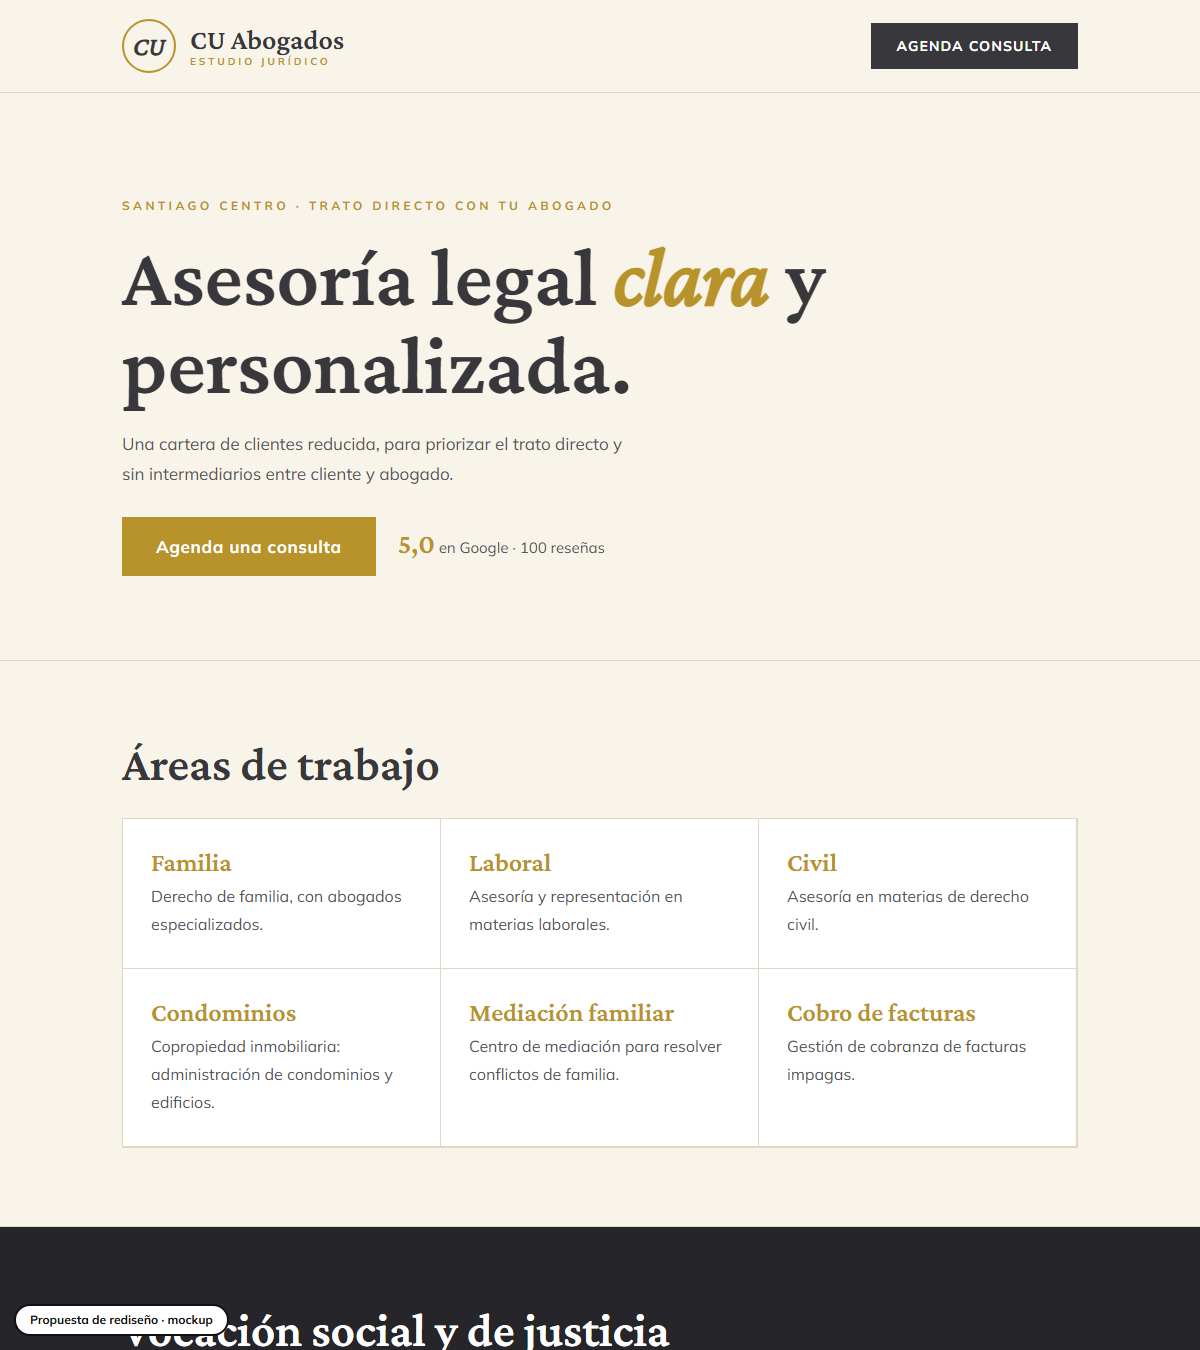
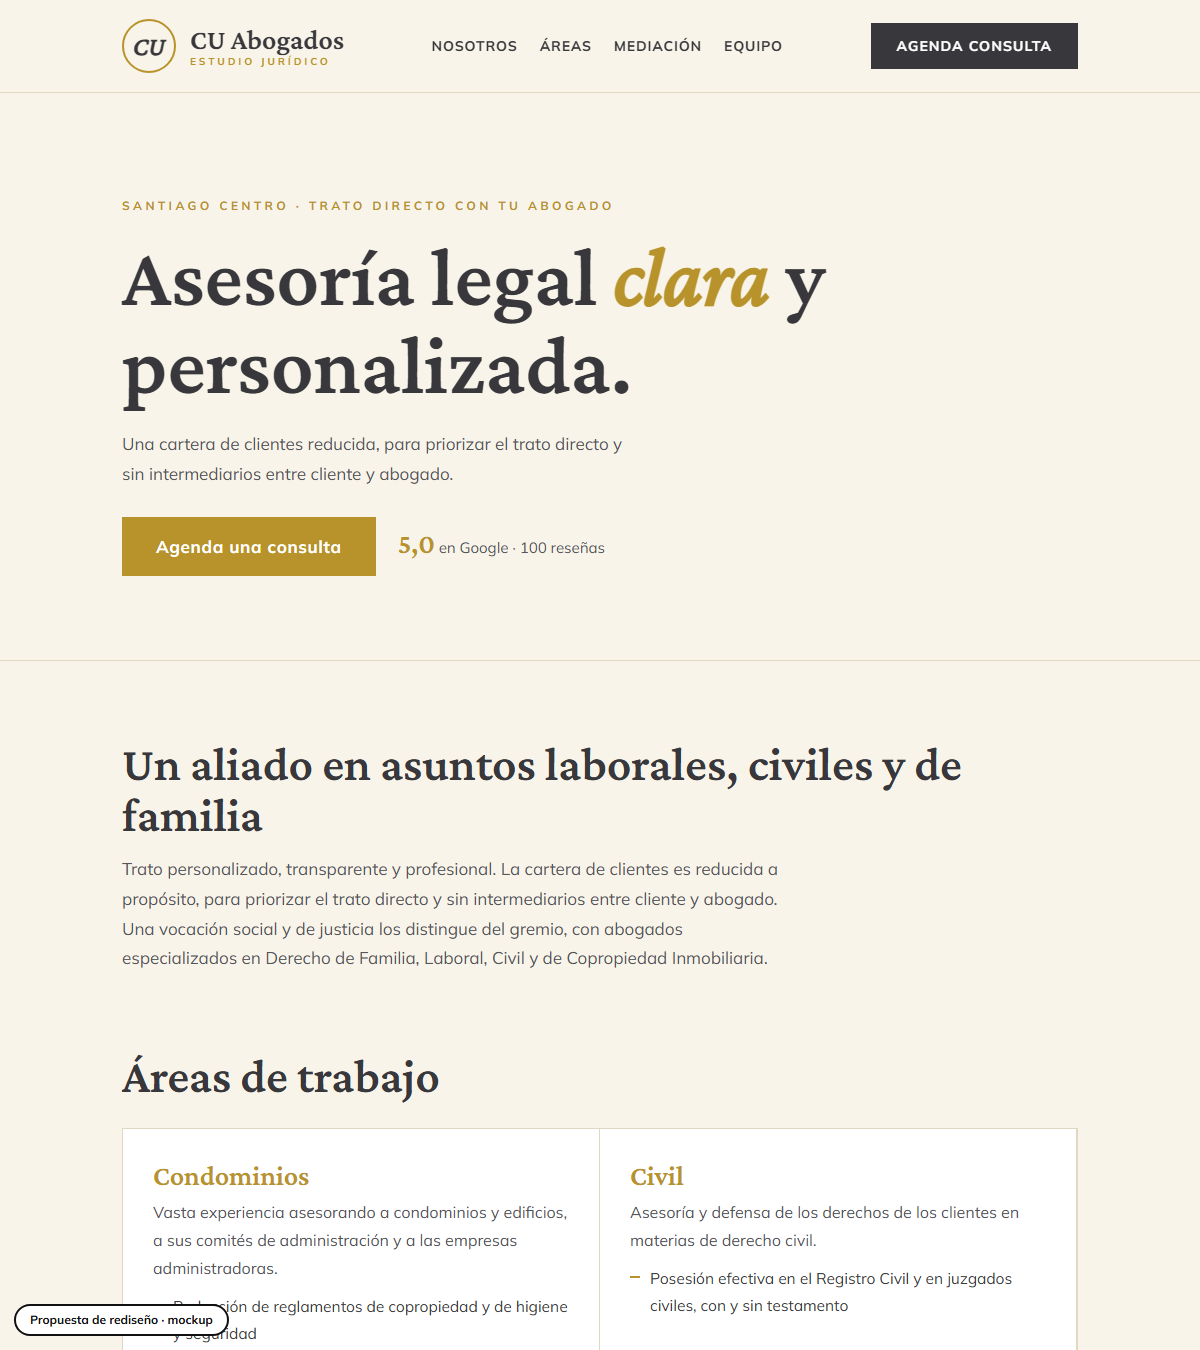
Mockup: cu-abogados-santiago

diff --git a/cu-abogados-santiago/index.html b/cu-abogados-santiago/index.html
@@ -6,12 +6,12 @@
 <link href="https://fonts.googleapis.com/css2?family=Crimson+Pro:ital,wght@0,400;0,600;1,400&family=Mulish:wght@400;600;700&display=swap" rel="stylesheet">
 <style>
 :root{--cream:#f8f4e9;--gold:#b8922a;--char:#38383c;--deep:#26262a;--line:#e0d8c2}
-*{box-sizing:border-box;margin:0}html{scroll-behavior:smooth}
+*{box-sizing:border-box;margin:0}html{scroll-behavior:smooth;scroll-padding-top:100px}
 @media(prefers-reduced-motion:reduce){html{scroll-behavior:auto}}
 body{background:var(--cream);color:var(--char);font:400 17px/1.75 Mulish,sans-serif}
 .wrap{max-width:1000px;margin:0 auto;padding:0 22px}
 h1,h2,h3{font-family:'Crimson Pro',serif;font-weight:600;line-height:1.05}
-header{border-bottom:1px solid var(--line)}header .wrap{display:flex;justify-content:space-between;align-items:center;height:92px;gap:12px}
+header{position:sticky;top:0;z-index:20;border-bottom:1px solid var(--line)}header .wrap{display:flex;justify-content:space-between;align-items:center;height:92px;gap:12px}
 .brand{display:flex;align-items:center;gap:14px;font:600 28px 'Crimson Pro'}
 .ring{width:54px;height:54px;border:2.5px solid var(--gold);border-radius:50%;display:grid;place-items:center;font:italic 600 26px 'Crimson Pro';color:var(--char)}
 .brand small{display:block;font:700 10px Mulish;letter-spacing:.3em;color:var(--gold)}
@@ -30,19 +30,21 @@ section{padding:78px 0;border-top:1px solid var(--line)}h2{font-size:clamp(30px,
 .why{background:var(--deep);color:#fff}.why h2{color:#fff}.why p{max-width:60ch;color:#d7d5cc}
 .contact{text-align:center}.contact a.l{display:block;font:italic 600 clamp(34px,6vw,62px) 'Crimson Pro';color:var(--char);text-decoration:none;margin:8px 0}.contact a.l:hover{color:var(--gold)}
 footer{padding:22px 0 90px;text-align:center;font-size:12px;letter-spacing:.2em;color:#8a8780}
-.mock{position:fixed;left:14px;bottom:14px;background:#fff;color:#111;border:2px solid #111;font:700 12px/1 Mulish;padding:8px 14px;border-radius:30px;z-index:9}
+.mock{z-index:30;position:fixed;left:14px;bottom:14px;background:#fff;color:#111;border:2px solid #111;font:700 12px/1 Mulish;padding:8px 14px;border-radius:30px;z-index:9}
 @media(max-width:820px){.areas{grid-template-columns:1fr}.hero .wrap{padding:56px 22px}.rate{display:block;margin:16px 0 0}}
-</style></head><body>
-<header><div class="wrap"><div class="brand"><span class="ring">CU</span><span>CU Abogados<small>ESTUDIO JURÍDICO</small></span></div><a class="b" href="#contacto">Agenda consulta</a></div></header>
+nav{display:flex;gap:22px;font-size:14px;font-weight:700;letter-spacing:.06em;text-transform:uppercase}nav a{color:var(--char);text-decoration:none}nav a:hover{color:var(--gold)}.det{display:grid;grid-template-columns:1fr 1fr;gap:0;border:1px solid var(--line);margin-top:26px;background:#fff}.det>div{padding:32px 30px;border:1px solid var(--line);margin:-1px 0 0 -1px}.det h3{font-size:28px;color:var(--gold);margin-bottom:8px}.det p{font-size:16px;color:#55555a;margin-bottom:8px}.det ul{list-style:none;padding:0;margin-top:6px}.det li{padding:3px 0 3px 20px;position:relative;font-size:15.5px;color:#3d3d42}.det li:before{content:"";position:absolute;left:0;top:14px;width:10px;height:2px;background:var(--gold)}.med{background:var(--cream);border-top:1px solid var(--line)}.med .wrap{display:grid;grid-template-columns:1fr 1fr;gap:40px;align-items:center}.med p{margin-bottom:12px;color:#55555a}.med .box{background:#fff;border:1px solid var(--line);border-left:5px solid var(--gold);padding:30px;font:italic 600 26px/1.25 "Crimson Pro"}.team{display:grid;grid-template-columns:1fr 1fr;gap:18px;margin-top:24px}.team>div{background:#fff;border:1px solid var(--line);padding:30px}.team b{font:600 26px "Crimson Pro";display:block}.team small{color:var(--gold);font-weight:700;letter-spacing:.14em;text-transform:uppercase;font-size:11px}.team p{margin-top:8px;font-size:15.5px;color:#55555a}@media(max-width:820px){nav{display:none}.det,.med .wrap,.team{grid-template-columns:1fr}}</style></head><body>
+<header><div class="wrap"><div class="brand"><span class="ring">CU</span><span>CU Abogados<small>ESTUDIO JURÍDICO</small></span></div><nav><a href="#nosotros">Nosotros</a><a href="#areas">Áreas</a><a href="#mediacion">Mediación</a><a href="#equipo">Equipo</a></nav><a class="b" href="#contacto">Agenda consulta</a></div></header>
 <div class="hero"><div class="wrap"><small>Santiago Centro · Trato directo con tu abogado</small><h1>Asesoría legal <em>clara</em> y personalizada.</h1><p>Una cartera de clientes reducida, para priorizar el trato directo y sin intermediarios entre cliente y abogado.</p><a class="btn" href="https://wa.me/56962084542?text=Hola%2C%20quisiera%20agendar%20una%20consulta">Agenda una consulta</a><span class="rate"><b>5,0</b> en Google · 100 reseñas</span></div></div>
-<section><div class="wrap"><h2>Áreas de trabajo</h2><div class="areas">
-<div><h3>Familia</h3><p>Derecho de familia, con abogados especializados.</p></div>
-<div><h3>Laboral</h3><p>Asesoría y representación en materias laborales.</p></div>
-<div><h3>Civil</h3><p>Asesoría en materias de derecho civil.</p></div>
-<div><h3>Condominios</h3><p>Copropiedad inmobiliaria: administración de condominios y edificios.</p></div>
-<div><h3>Mediación familiar</h3><p>Centro de mediación para resolver conflictos de familia.</p></div>
-<div><h3>Cobro de facturas</h3><p>Gestión de cobranza de facturas impagas.</p></div></div></div></section>
-<section class="why"><div class="wrap"><h2>Vocación social y de justicia</h2><p>Se diferencian por una vocación social y de justicia, con abogados especializados en familia, laboral, civil y copropiedad inmobiliaria, para un servicio eficiente y de calidad.</p></div></section>
+<section id="nosotros"><div class="wrap"><h2>Un aliado en asuntos laborales, civiles y de familia</h2><p style="max-width:66ch;color:#55555a">Trato personalizado, transparente y profesional. La cartera de clientes es reducida a propósito, para priorizar el trato directo y sin intermediarios entre cliente y abogado. Una vocación social y de justicia los distingue del gremio, con abogados especializados en Derecho de Familia, Laboral, Civil y de Copropiedad Inmobiliaria.</p></div></section>
+<section id="areas" style="padding-top:0;border-top:0"><div class="wrap"><h2>Áreas de trabajo</h2><div class="det">
+<div><h3>Condominios</h3><p>Vasta experiencia asesorando a condominios y edificios, a sus comités de administración y a las empresas administradoras.</p><ul><li>Redacción de reglamentos de copropiedad y de higiene y seguridad</li><li>Todas las materias de la ley 19.537 de Copropiedad Inmobiliaria</li></ul></div>
+<div><h3>Civil</h3><p>Asesoría y defensa de los derechos de los clientes en materias de derecho civil.</p><ul><li>Posesión efectiva en el Registro Civil y en juzgados civiles, con y sin testamento</li></ul></div>
+<div><h3>Cobro de facturas</h3><p>Apoyo jurídico a pymes que necesitan cobrar facturas impagas, en distintos juzgados civiles del país.</p><ul><li>Cobro extrajudicial</li><li>Juicios ejecutivos y juicios ordinarios</li></ul></div>
+<div><h3>Laboral</h3><p>Asesoría legal en el ámbito del derecho del trabajo.</p><ul><li>Negociación colectiva, en distintas ciudades de Chile</li><li>Contratos individuales de trabajo</li><li>Reconsideración y reclamación de multas de la Inspección del Trabajo</li><li>Juicios por despido injustificado, nulidad del despido y tutela laboral</li></ul></div>
+<div><h3>Familia</h3><p>Amplia experiencia litigando ante juzgados de familia de todo Chile, con una abogada especializada en el área. Asesoría integral y defensa de los derechos de los clientes.</p></div>
+<div><h3>Centro de mediación familiar</h3><p>Un plus del estudio: mediadores profesionales que ayudan a las familias a resolver conflictos de forma constructiva.</p></div></div></div></section>
+<section class="med" id="mediacion"><div class="wrap"><div><h2>Mediación familiar</h2><p>El objetivo es mediar las dificultades y asegurar una solución amistosa para los miembros de la familia afectados.</p><p>Los mediadores ayudan a las partes a comunicarse mejor, a comprender sus puntos de vista y a llegar a un acuerdo mutuamente satisfactorio, que se pone en conocimiento del tribunal, sin imposición de terceros en juicio.</p></div><div class="box">Resolver conflictos con la mayor celeridad y justicia social posible.</div></div></section>
+<section id="equipo"><div class="wrap"><h2>Equipo jurídico</h2><div class="team"><div><small>Abogada</small><b>Claudia Urrutia</b><p>Con mención en Derecho Judicial (Universidad Finis Terrae). Con amplia vocación social, especializada en Derecho de Familia y Civil, con vasta experiencia de litigación en juzgados de familia y de competencia común a lo largo de Chile.</p></div><div><small>Abogado</small><b>Fabián Contreras</b><p>Integrante del equipo jurídico del estudio.</p></div></div></div></section>
 <section class="contact" id="contacto"><div class="wrap"><h2>Agenda tu consulta</h2><a class="l" href="https://wa.me/56962084542">+56 9 6208 4542</a><p>Lunes a viernes, 09:00 a 17:00 · Tenderini 85, Santiago Centro · +56 9 8191 1355<br><a style="color:var(--char)" href="mailto:contacto@cuabogados.cl">contacto@cuabogados.cl</a></p></div></section>
 <footer>CU ABOGADOS · SANTIAGO CENTRO</footer>
 <div class="mock">Propuesta de rediseño · mockup</div></body></html>
